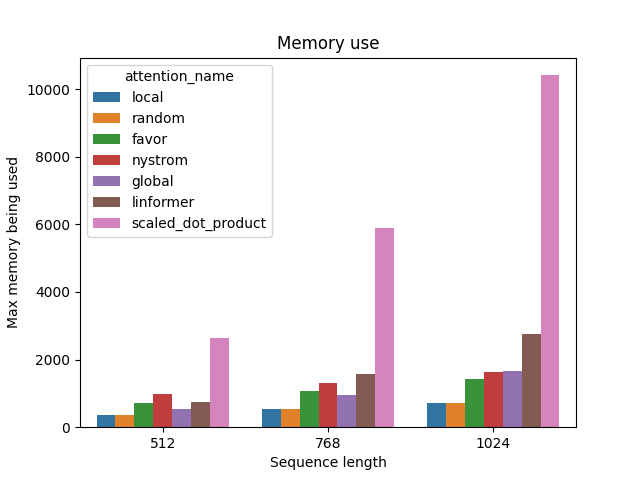
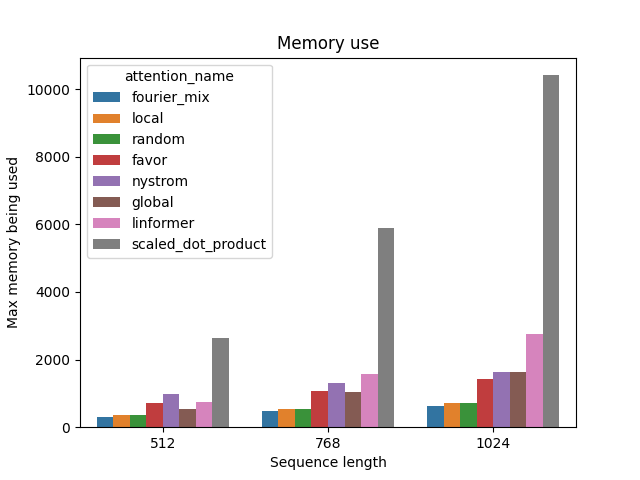
[FourierMix/FNet] Adding the FFT mix layer (#109)
* Adding the FFT layer, something would need to be done around the embeddings
* adding the corresponding bibiography reference

diff --git a/xformers/components/attention/fourier_mix.py b/xformers/components/attention/fourier_mix.py
@@ -1,0 +1,22 @@
+import torch
+
+from xformers.components.attention import Attention, register_attention
+
+
+@register_attention("fourier_mix")
+class FourierMix(Attention):
+    def __init__(self, *args, **kwargs):
+        """
+        FFT-based pseudo-attention mechanism, from
+        "
+        "FNet: Mixing Tokens with Fourier Transforms"
+        Lee-Thorp et al., 2021, https://arxiv.org/pdf/2105.03824.pdf
+        """
+        super().__init__()
+
+    def forward(self, q: torch.Tensor, *args, **kwargs):
+        fourier_hidden = torch.fft.fft(q, dim=-1)  # FFT on the embedding dimension
+        fourier_sequence = torch.fft.fft(
+            fourier_hidden, dim=1
+        )  # FFT on the sequence dimension
+        return torch.real(fourier_sequence)  # only keep the real part, as suggested

diff --git a/README.md b/README.md
@@ -130,3 +130,4 @@ Some references or papers used in the repo
 - [Reformer: The Efficient Transformer, Kitaev et al., 2020](https://arxiv.org/abs/2001.04451)
 - [Longformer: The Long-Document Transformer, Beltagy et al., 2020](https://arxiv.org/pdf/2004.05150.pdf)
 - [Long Range Arena: a benchmark for efficient Transformers, Tay et al., 2020](https://arxiv.org/abs/2011.04006)
+- [FNet: Mixing tokens with Fourier transform, Lee-Thorp et al., 2021](https://arxiv.org/pdf/2105.03824v1.pdf)
